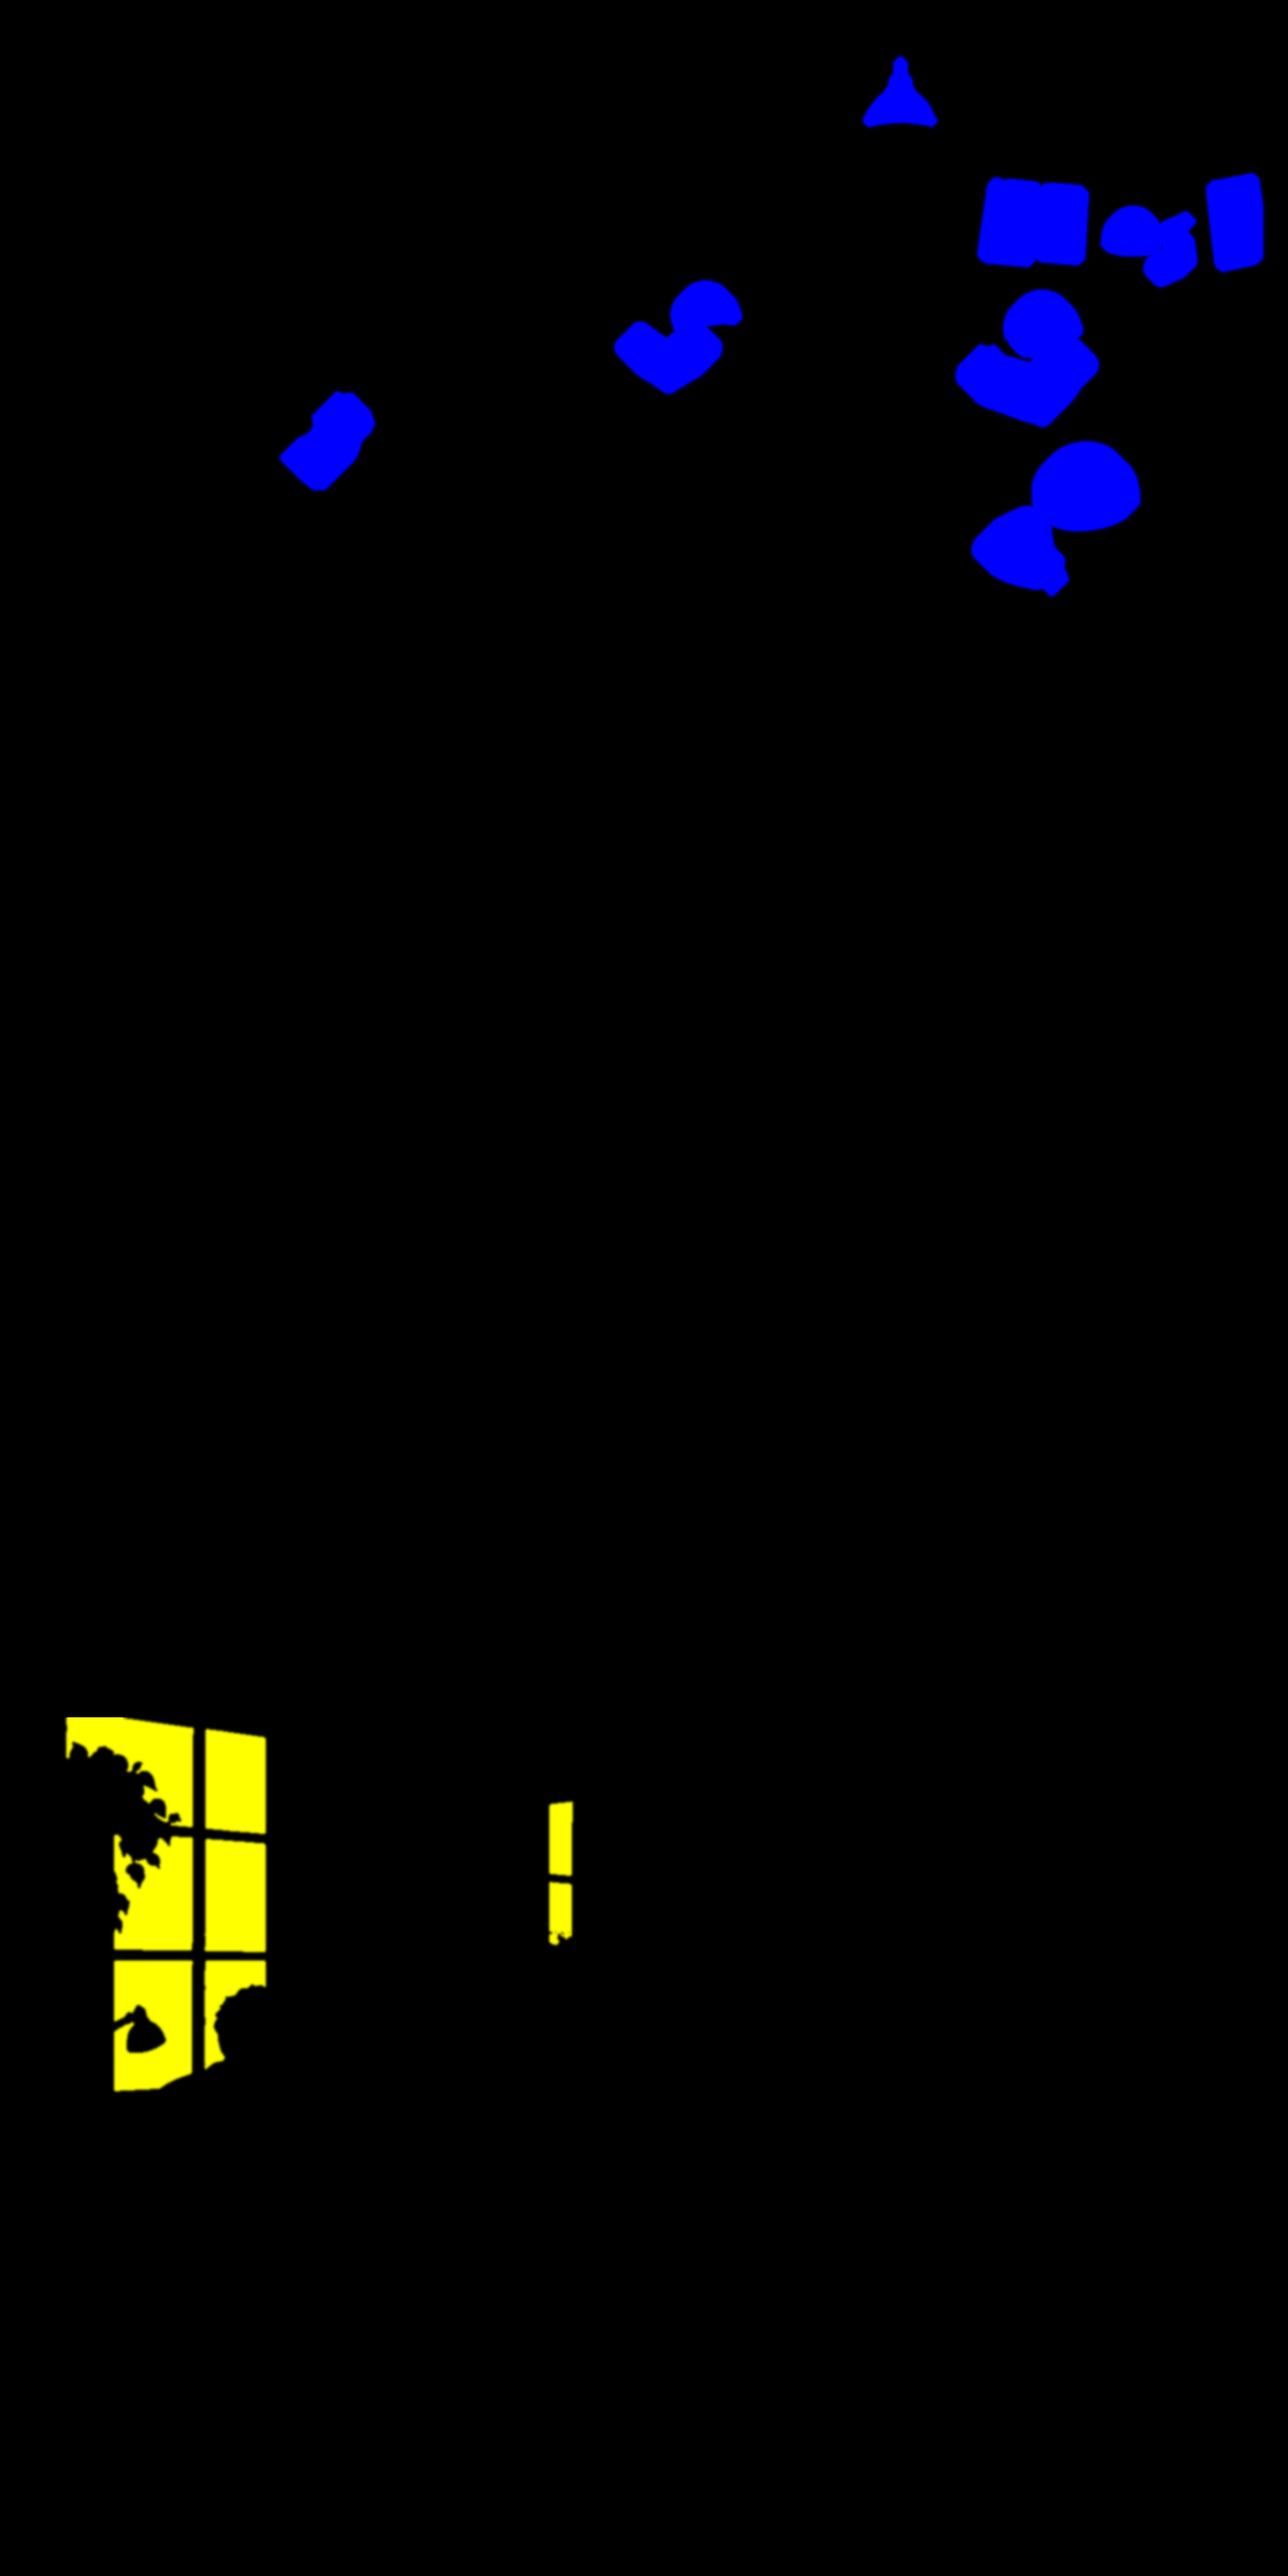
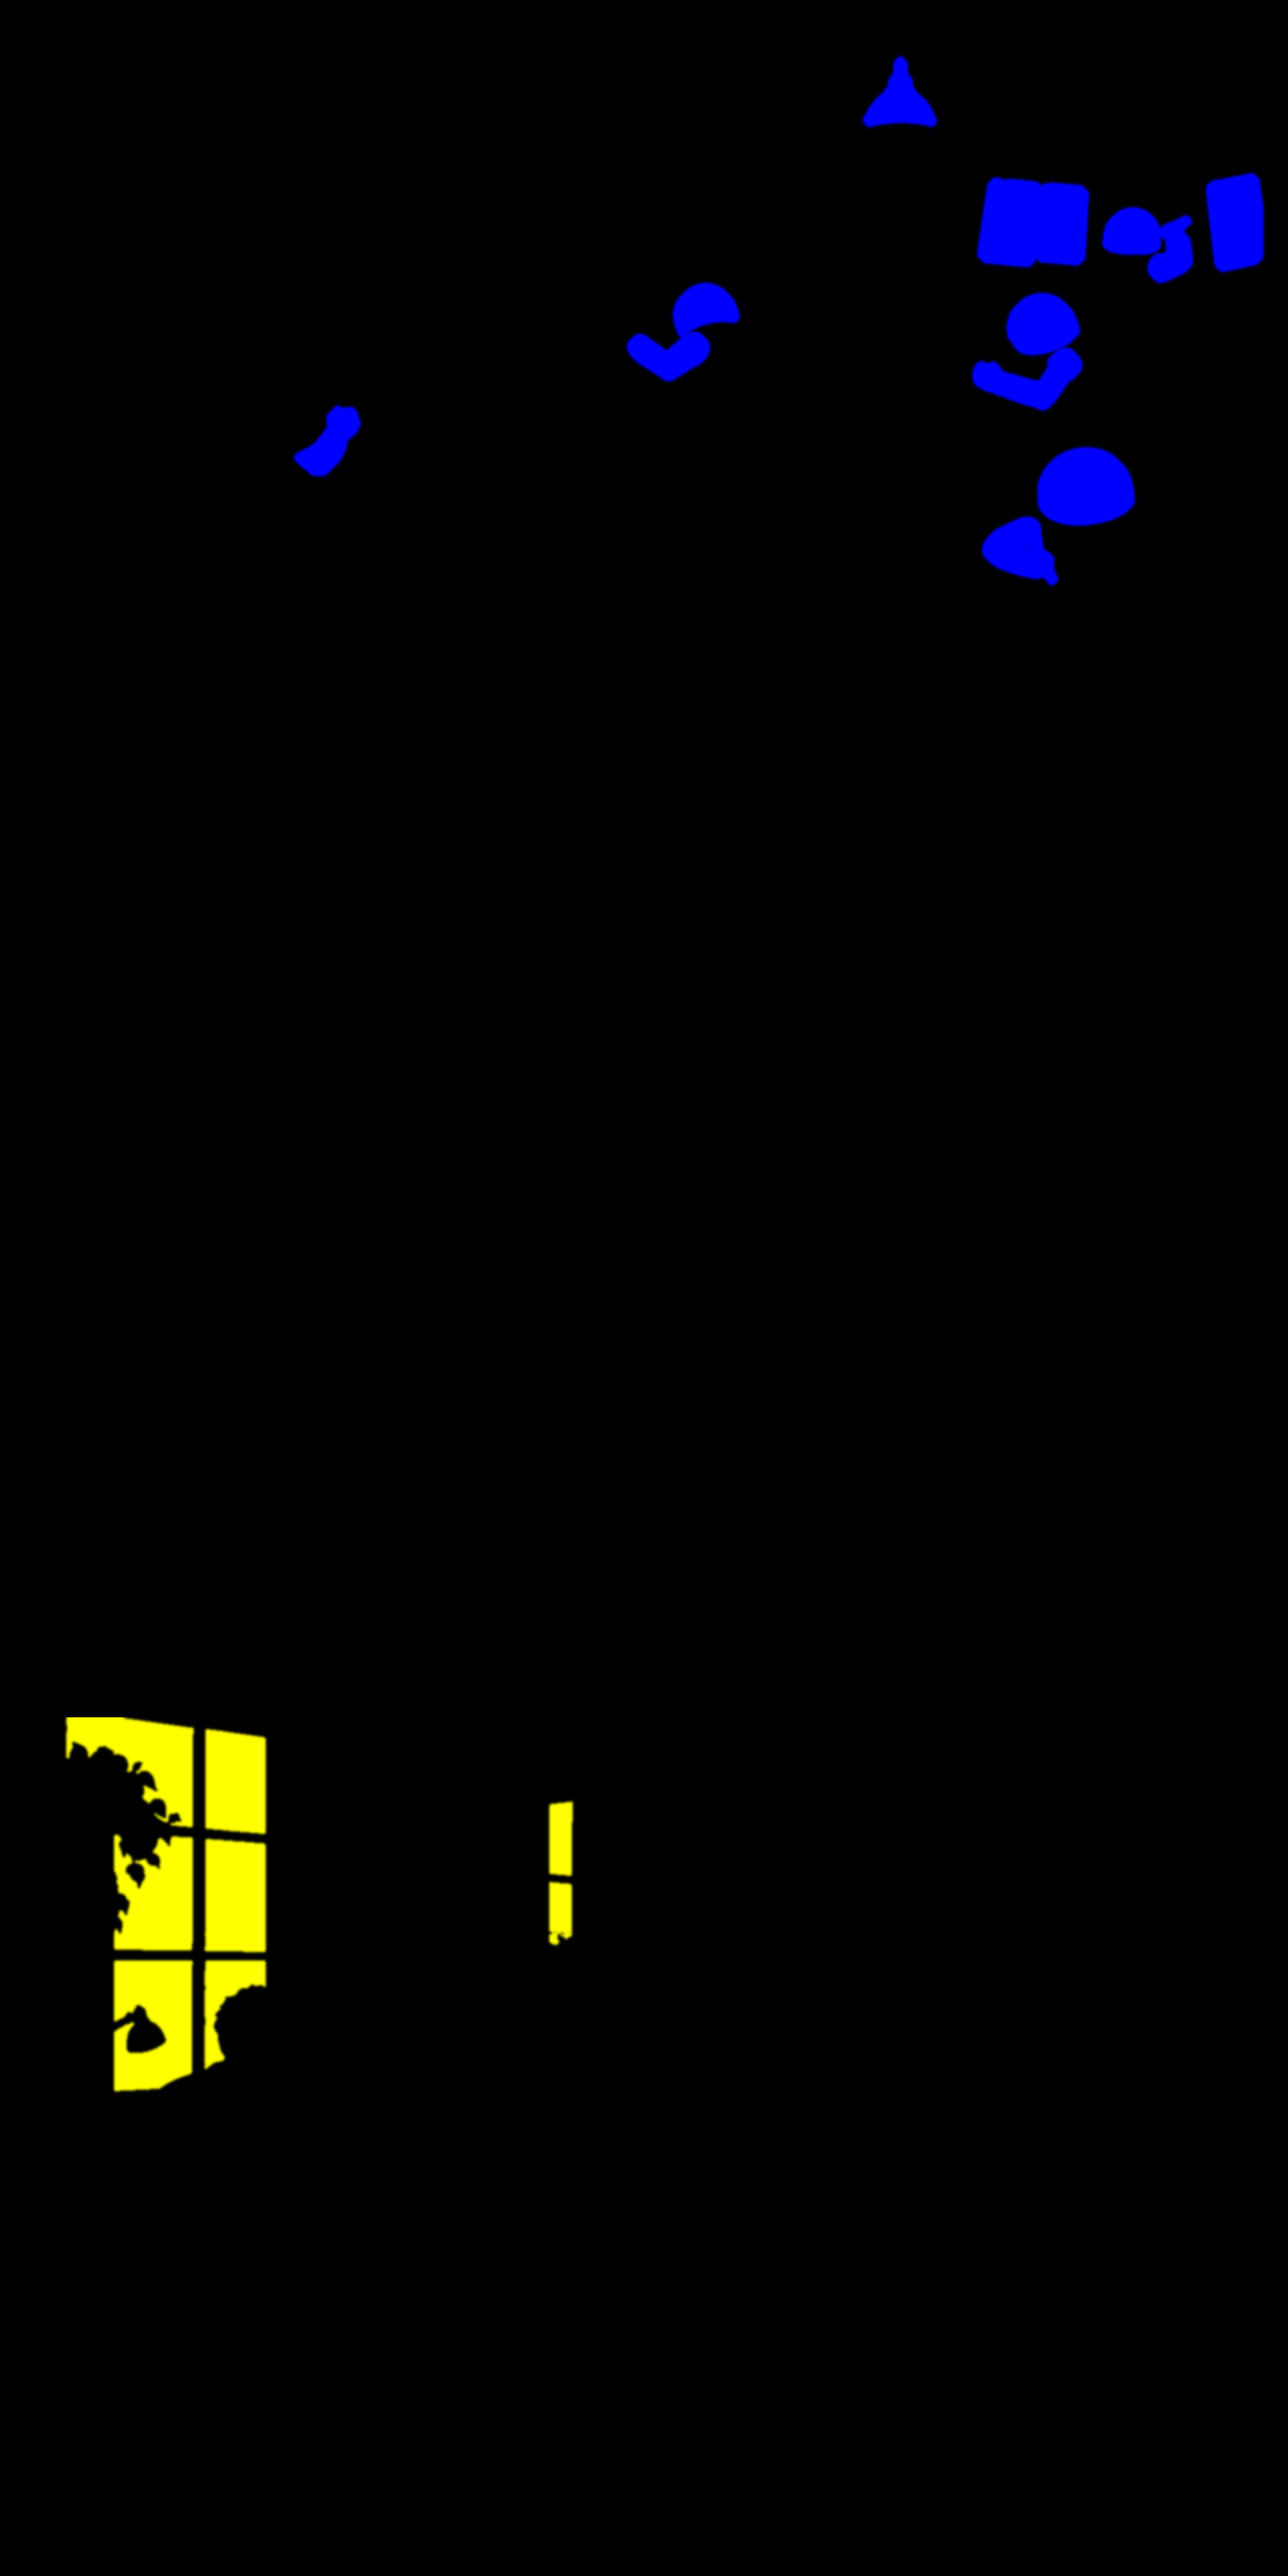
revert(covers): go back to limbs of about 5 degrees
Ten degrees moved the robots too much and bent what is around them.
This reverts commit d643f2b.

Assisted-by: claude-code/claude-opus-5-5

diff --git a/src/themes/large-print/assets/js/motion.js b/src/themes/large-print/assets/js/motion.js
@@ -302,7 +302,7 @@
     "  float f = float(i);",
     "  float sw = 0.055 * sin(t * (1.1 + 0.15 * f) + f * 2.1) * (0.7 + 0.3 * sin(t * 0.23 + f));",
     // a limb moves now and then, small and irregular
-    "  float idle = 0.055 * (0.6 * sin(t * 0.7 + f * 1.3) + 0.4 * sin(t * 1.9 + f * 2.7)) * smoothstep(-0.8, 0.2, sin(t * 0.35 + f));",
+    "  float idle = 0.055 * (0.6 * sin(t * 0.7 + f * 1.3) + 0.4 * sin(t * 1.9 + f * 2.7)) * smoothstep(-0.6, 0.3, sin(t * 0.35 + f));",
     "  return s.z * mix(sw, idle, s.w);",
     "}",
     // a light hung from a lamp follows its swing

diff --git a/scripts/cover-engine/build.py b/scripts/cover-engine/build.py
@@ -207,14 +207,10 @@ for i, o in ids.items():
         if hook is None:
             hook = [int(np.median(xx[m & (yy < b[1] + 4)])), b[1]]
         length = max(max(b[3] - hook[1], b[2] - b[0]), 1)
-        # an arm turns about 10 degrees at most, a head about 5; a lamp or a tool swings
-        # more the shorter it is
-        base = (1.6 if "head" in i else 3.2) if k == "limb" else min(1.0, 65.0 / length)
+        # a limb turns about 5 degrees at most; a lamp or a tool swings more the shorter it is
+        base = 1.6 if k == "limb" else min(1.0, 65.0 / length)
         swings.append({"id": i, "anchor": [int(hook[0]), int(hook[1])], "box": b, "amp": round(base * a, 3), "idle": k == "limb"})
-        # the area that turns reaches past the shape by as much as its far end travels,
-        # so a turning arm is never clipped at the edge of where it was drawn
-        reach = int(np.clip(length * 0.055 * base * 1.2, 4, 24))
-        np.maximum(turn, soft(m, max(reach, 6 if k != "limb" else 4), 2), out=turn)
+        np.maximum(turn, soft(m, 4 if k == "limb" else 6, 2), out=turn)
     elif k == "thread" and pulse_spec is not False:
         frm = pulse_spec.get("from", "bottom") if isinstance(pulse_spec, dict) else "bottom"
         ys, xs = np.where(m)
